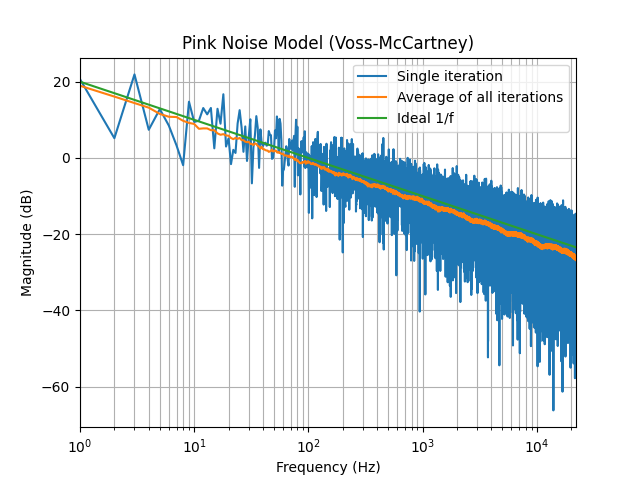
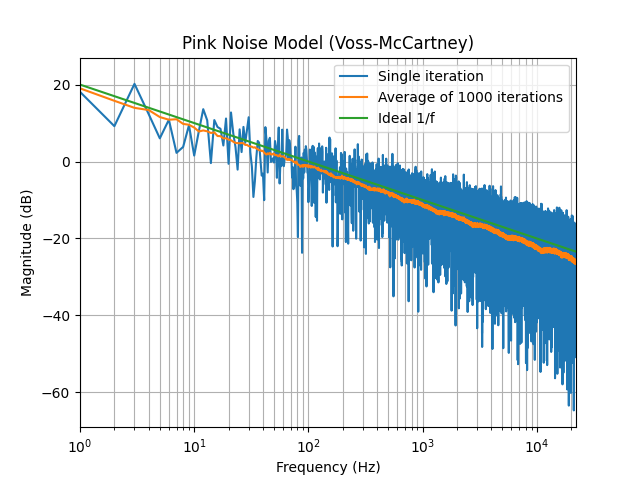
updates for blog writing

Changed region(s): [[0.0625, 0.125, 0.9062, 0.8438], [0.0625, 0.7812, 0.125, 0.8438], [0.0625, 0.625, 0.125, 0.6875]]

diff --git a/model/pink.py b/model/pink.py
@@ -8,12 +8,10 @@ from tqdm import trange
 
 class NoiseGenerator():
     def Update(self):
-        self.prev_value = self.value
         self.value = (random.random() * 2.0) - 1.0
 
     def __init__(self):
         self.value = 0.0
-        self.prev_value = 0.0
 
 def trailing_bits(num):
     bits = bin(num)
@@ -82,13 +80,13 @@ def voss(num_samples,generators):
         index = trailing_bits(counter)
         indices[i] = index
     
-        noise_array[index].Update()
-        white_noise.Update()
 
-        white = white - white_noise.prev_value
+        white = white - white_noise.value
+        white_noise.Update()
         white = white + white_noise.value
 
-        white = white - noise_array[index].prev_value;
+        white = white - noise_array[index].value;
+        noise_array[index].Update()
         white = white + noise_array[index].value;
         x[i] = white
 
@@ -135,17 +133,35 @@ print(f'\nGradient Analysis')
 print(f' Pink Slope: {X_slope:.2f}')
 print(f'Ideal Slope: {ideal_slope:.2f}')
 
-
 plt.figure(1)
 plt.semilogx( Xf, Xdb )
 plt.semilogx( Xf, Zdb )
 plt.semilogx( ideal_f, ideal_db )
-plt.legend(['Single iteration', 'Average of all iterations', 'Ideal 1/f'])
+plt.legend(['Single iteration', f'Average of {num_tests} iterations', 'Ideal 1/f'])
+
 plt.xlim( 1, int(fs / 2 ) )
-
 plt.grid(which='both')
-
 plt.title('Pink Noise Model (Voss-McCartney)')
+plt.ylabel('Magnitude (dB)')
+plt.xlabel('Frequency (Hz)')
+
+noise = NoiseGenerator()
+n = np.zeros(num_samples)
+for i in range(num_samples):
+    noise.Update()
+    n[i] = noise.value
+    
+N, Nf, Ndb = fft(n, fs, len(n),norm='ortho' )
+x, indices = voss(num_samples,generators)
+X, Xf, Xdb = fft(x, fs, len(x),norm='ortho' )
+
+plt.figure(2)
+plt.semilogx( Nf, Ndb )
+plt.semilogx( Xf, Xdb )
+plt.legend(['White noise','Pink Noise'])
+plt.xlim( 1, int(fs / 2 ) )
+plt.grid(which='both')
+plt.title('FFT of white and pink noise')
 plt.ylabel('Magnitude (dB)')
 plt.xlabel('Frequency (Hz)')
 

diff --git a/src/pink.rs b/src/pink.rs
@@ -50,14 +50,13 @@ impl Pink{
         let index = self.get_noise_index() as usize;
         assert!( index < self.generators as usize );
 
-        self.white.update();
+        self.pink = self.pink - self.noise[index].value();
         self.noise[index].update();
-
-        self.pink = self.pink - self.white.previous();
-        self.pink = self.pink + self.white.value();
-        
-        self.pink = self.pink - self.noise[index].previous();
         self.pink = self.pink + self.noise[index].value();
+
+        self.pink = self.pink - self.white.value();
+        self.white.update();
+        self.pink = self.pink + self.white.value(); 
 
         self.increment_counter();
 
@@ -78,11 +77,9 @@ mod tests {
         assert_eq!(p.pink, 0.0);
         assert_eq!(p.rollover,16384);
         assert_eq!(p.white.value(), 0.0);
-        assert_eq!(p.white.previous(), 0.0);
 
         for i in 0..Pink::GENERATORS{
             assert_eq!(p.noise[i as usize].value(), 0.0);
-            assert_eq!(p.noise[i as usize].previous(), 0.0);
         }
 
     }
@@ -95,14 +92,11 @@ mod tests {
         assert_eq!(p.pink, 0.0);
         assert_eq!(p.rollover,16384);
         assert_eq!(p.white.value(), 0.0);
-        assert_eq!(p.white.previous(), 0.0);
        
         p.update();
         assert_ne!(p.pink, 0.0);
         assert_ne!(p.white.value(), 0.0);
-        assert_eq!(p.white.previous(), 0.0);
         assert_ne!(p.noise[0].value(), 0.0);
-        assert_eq!(p.noise[0].previous(), 0.0);
     }
 
     #[test]

diff --git a/src/noise.rs b/src/noise.rs
@@ -2,24 +2,17 @@ use rand::random;
 
 #[derive(Copy, Clone)]
 pub struct Noise{
-    previous:f32,
     value:f32,
 }
 
 impl Noise{
     pub fn new() -> Noise{
         Noise{
-            previous: 0.0,
             value: 0.0,
         }
     }
     pub fn update(&mut self){
-        self.previous = self.value;
         self.value = (random::<f32>() * 2.0) - 1.0;
-    }
-
-    pub fn previous(&self) -> f32{
-        self.previous
     }
     
     pub fn value(&self) -> f32{
@@ -35,7 +28,6 @@ mod tests {
     fn init() {
         let n = Noise::new();
 
-        assert_eq!(n.previous(), 0.0);
         assert_eq!(n.value(), 0.0);
     }
     
@@ -43,12 +35,10 @@ mod tests {
     fn update() {
         let mut n = Noise::new();
 
-        assert_eq!(n.previous(), 0.0);
         assert_eq!(n.value(), 0.0);
 
         n.update();
         
-        assert_eq!(n.previous(), 0.0);
         assert_ne!(n.value(), 0.0);
     }
     
@@ -56,17 +46,13 @@ mod tests {
     fn update_twice() {
         let mut n = Noise::new();
 
-        assert_eq!(n.previous(), 0.0);
         assert_eq!(n.value(), 0.0);
 
         n.update();
         
-        assert_eq!(n.previous(), 0.0);
         assert_ne!(n.value(), 0.0);
 
-        let prev = n.value();
         n.update();
-        assert_eq!(n.previous(), prev);
         assert_ne!(n.value(), 0.0);
     }
 }
